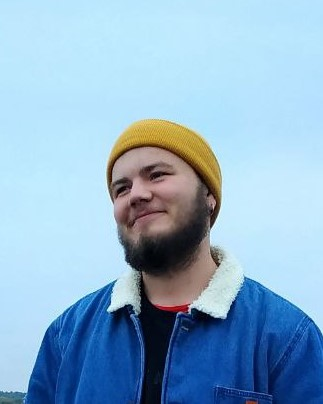
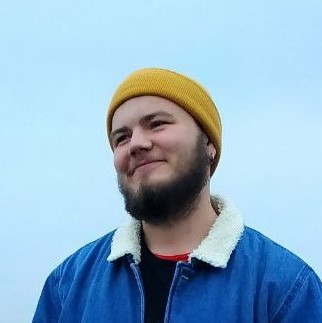
feat: fix some problems, add conten to footer

Changed region(s): [[0.0, 0.1858, 1.0, 1.0]]

diff --git a/index.html b/index.html
@@ -14,7 +14,7 @@
 <body>
     <header>
         <div class="container">
-            <div class="nav">
+            <nav>
                 <div class="logo">
                 <a href="https://mikdalton.github.io/rsschool-cv/">Mikdalton</a>
                 </div>
@@ -24,10 +24,10 @@
                 <li class="nav-item"><a href="#codeExample" class="nav-link">Code Example</a></li>
                 <li class="nav-item"><a href="#experience" class="nav-link">Experience</a></li>
                 <li class="nav-item"><a href="#education" class="nav-link">Education</a></li>
-                <li class="nav-item"><a href="#languages" class="nav-link">Languages</a></li>
+                <li class="nav-item"><a href="#projects" class="nav-link">Projects</a></li>
                 <li class="nav-item"><a href="#contacts" class="nav-link">Contacts</a></li>
                 </ul>
-            </div>
+            </nav>
         </div>
     </header>
     <main>
@@ -45,15 +45,15 @@
                     <div class="contacts" id="#contacts">
                         <ul class="contacts-list">
                             <li class="contact-title"><h2>Phone number:</h2></li>
-                            <li class="contact-info"><a href="#">+375336193665</a></li>
-                            <li class="contact-title"><h2>Email:</h3></li>
-                            <li class="contact-info"><a href="#">mambaklas@gmail.com</a></li>
+                            <li class="contact-info"><a href="tel:+375336193665">+375336193665</a></li>
+                            <li class="contact-title"><h2>Email:</h2></li>
+                            <li class="contact-info"><a href="mailto:mambaklas@gmail.com">mambaklas@gmail.com</a></li>
                         </ul>
                         <ul class="contacts-list">
                             <li class="contact-title"><h2>Discord:</h2></li>
-                            <li class="contact-info"><a href="#">@Tsymik</a></li>
+                            <li class="contact-info"><a href="//discordapp.com/users/tsymik#8109/">@Tsymik</a></li>
                             <li class="contact-title"><h2>Telegram:</h2></li>
-                            <li class="contact-info"><a href="#">@Mikdalton</a></li>
+                            <li class="contact-info"><a href="https://t.me/mikdalton">@Mikdalton</a></li>
                         </ul>
                     </div>
                 </div>
@@ -73,7 +73,7 @@
                                 <li>Git</li>
                             </ul>
                         </section>
-                        <section class="languages" id="languages">
+                        <section class="languages">
                             <h2>Languages</h2>
                             <ul class="languages-list">
                                 <li>Belarusian - native speaker.</li>
@@ -86,7 +86,7 @@
                 <div class="column-right">
                     <section class="aboutMe-section" id="aboutMe">
                         <h2>About me</h2>
-                        <p>Hi, I'm Nikita and I'm a beginner web developer. After working as an engineer for several years, I realized that I wanted to work in a different industry. Remembering that I studied programming at school, I decided to change my profession and start learning again. Although my programming abilities are not great, I am sure that my desire to learn and perseverance will lead me to success.</p>
+                        <p>Hi, I'm Mikita and I'm a beginner web developer. After working as an engineer for several years, I realized that I wanted to work in a different industry. Remembering that I studied programming at school, I decided to change my profession and start learning again. Although my programming abilities are not great, I am sure that my desire to learn and perseverance will lead me to success.</p>
                     </section>
                     <section class="education" id="education">
                         <h2>Education</h2>
@@ -104,8 +104,7 @@
                     </section>
                     <section class="codeexample" id="codeExample">
                         <h2>Code example</h2>
-                        <pre class="code"><code>
-        &lt;!DOCTYPE html&gt;
+                        <pre><code>&lt;!DOCTYPE html&gt;
         &lt;html lang=&quot;en&quot;&gt;
         &lt;head&gt;
             &lt;meta charset=&quot;UTF-8&quot;&gt;
@@ -118,17 +117,34 @@
         &lt;/body&gt;
         &lt;/html&gt;</code></pre>
                     </section>
+                    <section class="projects" id="projects">
+                        <h2>My projects</h2>
+                        <div class="project-line">
+                            <div class="project-square">
+                                <a href="https://mikdalton.github.io/rsschool-cv/" class="project-link">CV</a>
+                                <a href="https://mikdalton.github.io/rsschool-cv/">
+                                    <img src="assets\img\CV project.PNG" alt="CV project photo" class="project-photo">
+                                </a>
+                                </div>
+                        </div>
+                    </section>
                 </div>
             </div>
         </div> 
     </main>
     <footer>
         <div class="container">
-            <div class="footer-information">
-                <div class="footer-logo">
-                    <div class="footer-background">
-                        <h2>Footer is here</h2>
+            <div class="footer-background">
+                <div class="footer-info">
+                    <div class="info-background">
+                        <ul class="footer-list">
+                            <li class="gitlogo"><a href="https://github.com/MikDalton">GitHub</a></li>
+                            <li class="data">December 2022</li>
+                        </ul>
                     </div>
+                </div>
+                <div class="footer-logo">
+                    <a href="https://rs.school/js/" class="rsslink"><img src="assets\img\RSSlogo.PNG" alt="RSS Logo" class="rsslogo"></a>
                 </div>
             </div>
         </div>

diff --git a/style.css b/style.css
@@ -16,15 +16,16 @@ body, ul, li, a, p, img {
   padding: 0;
   list-style: none;
   line-height: 32px;
+
 }
 h1, h2, h3, h4, h5, h6 {
   margin: 0;
-  
 }
 h1 {
   font-size: 48px;
   font-weight: medium;
   color: white
+  
 }
 h2 {
   font-weight: medium;
@@ -37,12 +38,17 @@ p {
 a {
   font-size: 20px;
   font-weight: light;
+  color: black;
+  text-decoration: none;
+}
+img {
+  border: none;
 }
 .container {
   width: 1200px;
   margin: auto;
 }
-.nav {
+nav {
   display: flex;
   justify-content: space-between;
   align-items: center;
@@ -92,14 +98,16 @@ a {
 }
 .photo-background {
   display: flex;
+  justify-content: center;
   align-items: center;
   background-color: #223B52;
   width: 276px;
   height: 430px;
 }
 .myphoto {
-  width: 276px;
+  width: 266px;
   height: auto;
+  border-radius: 300px;
 }
 .information {
   display: flex;
@@ -199,29 +207,85 @@ a {
   border-bottom: 2px solid black;
 }
 code {
+  padding-top: 0;
+  margin-top: 0;
+  
   font-size: 20px;
-}footer {
+}
+pre {
+  padding:  0px;
+  margin: 0px;
+  margin-bottom: 20px;
+}
+.project-line {
+  display: flex;
+  align-items: flex-start;
+  justify-content: flex-start;
+  margin-bottom: 20px;
+}
+.project-square {
+  display: flex;
+  flex-direction: column;
+  align-items: flex-start;
+  margin-right: 20px;
+}
+.project-link {
+  margin-bottom: 10px;
+}
+.project-photo {
+  height: 200px;
+  width: auto;
+}
+footer {
   background-color:black;
 }
-.footer-information {
+.footer-background {
   display: flex;
+  justify-content: space-between;
   align-items: center;
   background-color: black;
   height: 50px;
   color: white;
 }
-.footer-logo {
+.footer-info {
   display: flex;
   justify-content: center;
   align-items: center;
   flex-basis: 30%;
+  color: white;
 }
-.footer-background {
+.info-background {
   display: flex;
-  justify-content: center;
+  justify-content: flex-start;
   align-items: center;
   height: 50px;
   width: 276px;
   background-color: #223B52;
-
+}
+.footer-list {
+  margin-left: 22px;
+  text-decoration: none;
+}
+.footer-list li{
+  margin-bottom: 0px;
+  line-height: 20px;
+  font-size: 18px;
+  font-weight: light;
+}
+.gitlogo a {
+  text-decoration: none;
+  line-height: 22px;
+  font-size: 18px;
+  color: white;
+}
+.footer-logo {
+  height: 50px;
+}
+.rsslink {
+  display: flex;
+  align-items: flex-end;
+}
+.rsslogo {
+  height: 50px;
+  width: auto;
 }
